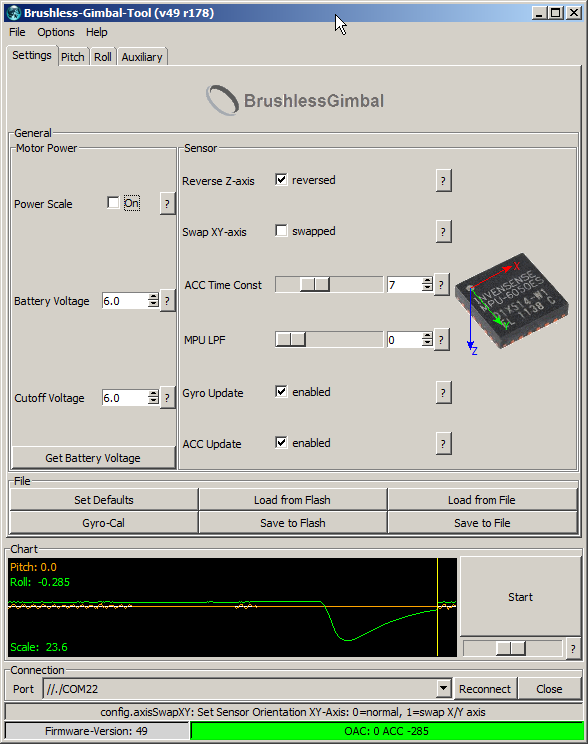
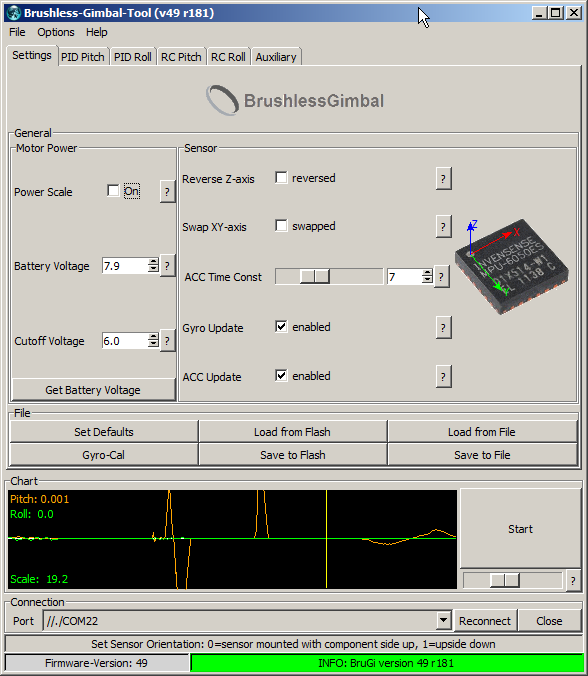
minor update   GUI screenshots added/update   angleOffset configuration more smooth open issue; gyro calibration with GUI fails, restart required (since r178?)

diff --git a/orientationRoutines.h b/orientationRoutines.h
@@ -46,18 +46,14 @@ void gyroOffsetCalibration()
   enableMotorUpdates = false;
 
   // wait 1 second
-  for (i=0; i<100; i++) {
-    delayMicroseconds(10000); // 1 ms 
-  }
+  delayT1(1000);
   
   while(calibGCounter>0)
   {
 
     if(calibGCounter==GYRO_INTERATIONS)
     {
-      for (i=0; i<70; i++) { // wait 0.7sec if calibration failed
-        delayMicroseconds(10000); // 10 ms 
-      }
+      delayT1(700);
       mpu.getRotation(&gyro[0], &gyro[1], &gyro[2]); 
       for (i=0; i<3; i++) {
         fp_gyroOffset[i] = 0;

diff --git a/variables.h b/variables.h
@@ -321,6 +321,12 @@ static int16_t acc_25deg = 25;      //** TODO: check
 
 static int32_t angle[2]    = {0,0};  // absolute angle inclination in multiple of 0.01 degree    180 deg = 18000
 
+static float angleOffsetRoll_f = 0;
+static float angleOffsetPitch_f = 0;
+
+static int32_t angleOffsetRoll = 0;
+static int32_t angleOffsetPitch = 0;
+
 
 // DEBUG only
 uint32_t stackTop = 0xffffffff;
